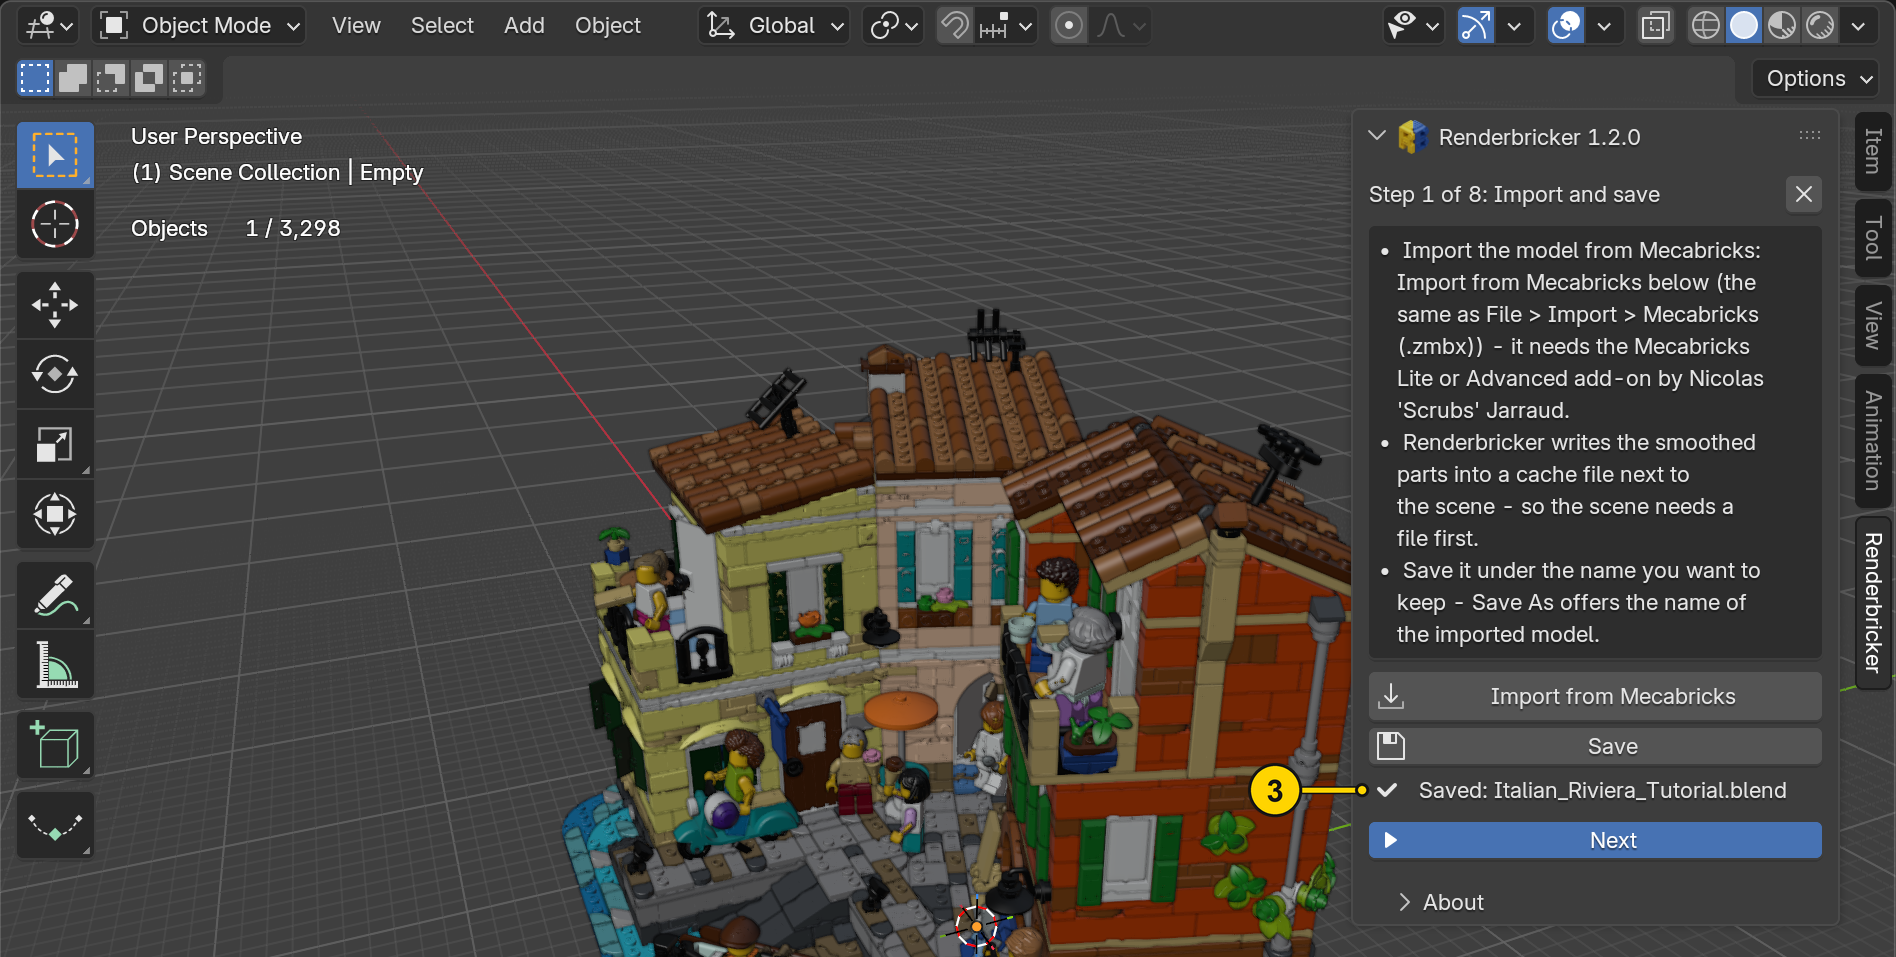
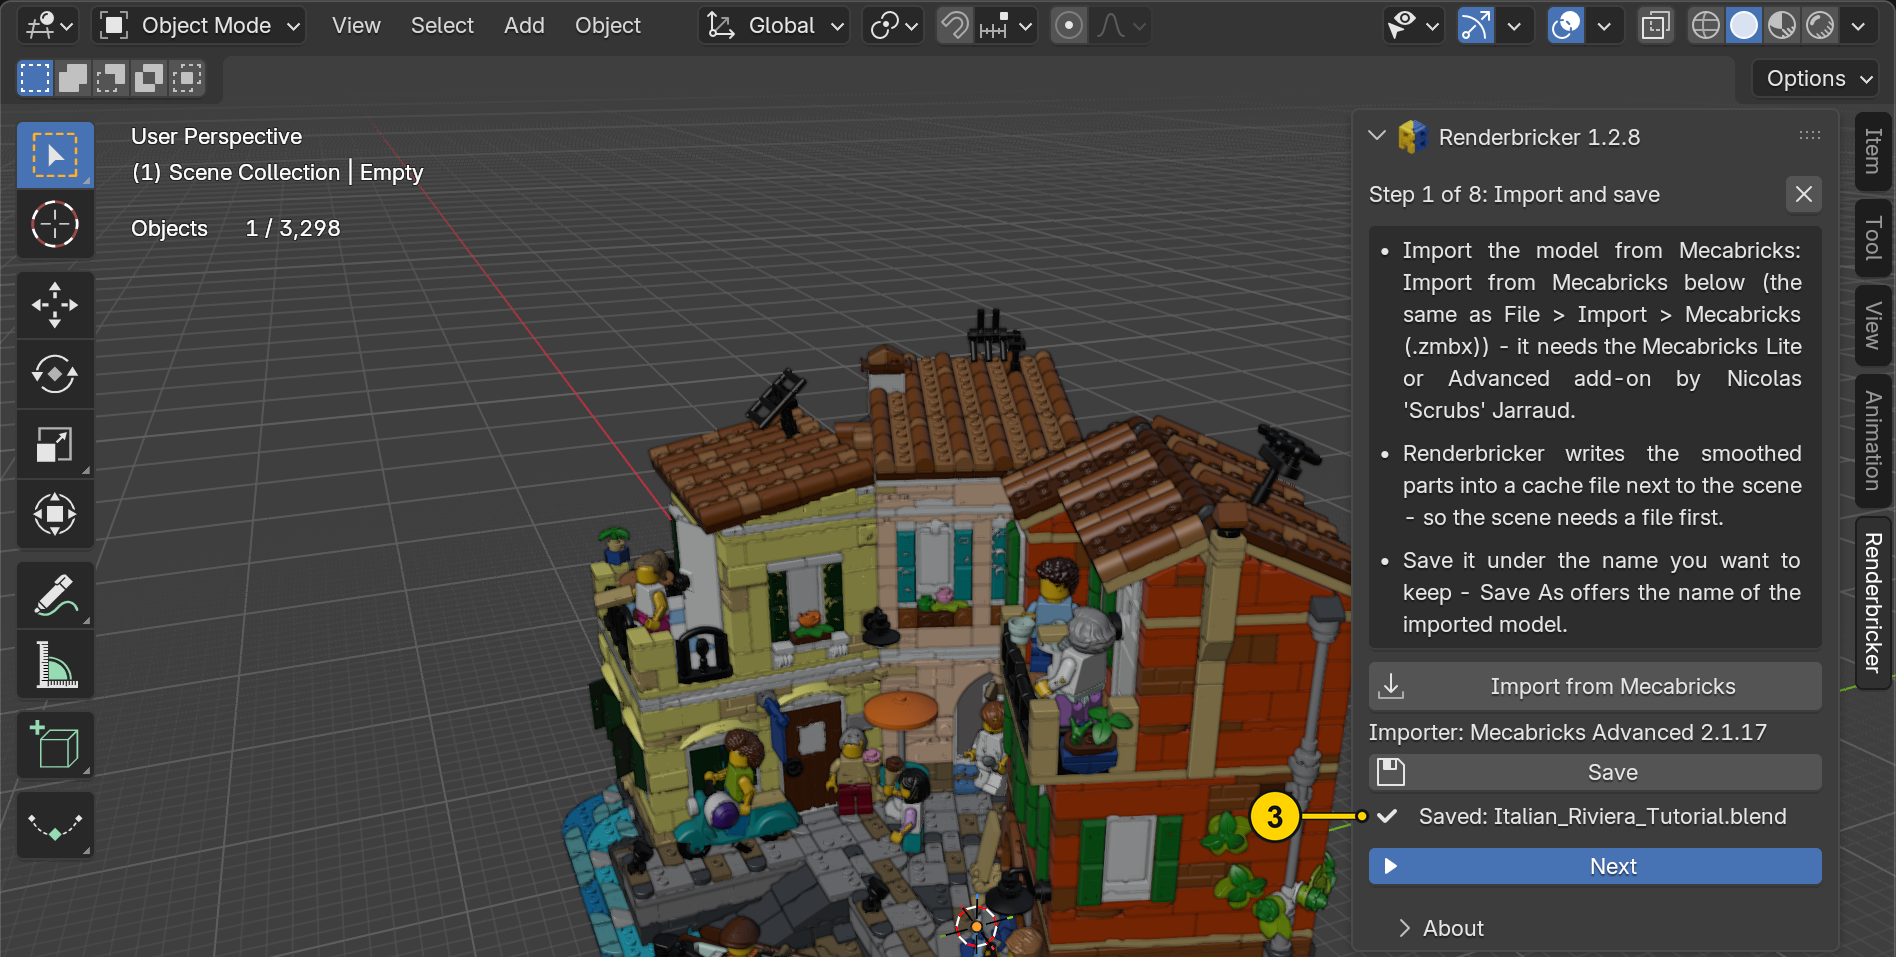
Release 1.2.8
- Convert headless: its question is a dialog with the sentence in short lines
  (as one line it grew wider than the Blender window); the cache question names
  the files on lines of their own.
- Tutorial revised for 1.2.8: the collection list in place of the scope All,
  Bevel maps for EEVEE, the cache question after Save As, Remove All, Save
  render scene; all panel pictures taken anew, one new picture.
- README: Bevel maps for EEVEE, Convert headless, imported models are listed.
- CHANGELOG: 1.2.8 dated 2026-10-11.

Claude-Session: https://claude.ai/code/session_01R4exWEBGeX9hqzNdHYzEeJ

Changed region(s): [[0.7157, 0.2424, 0.9647, 0.6667], [0.6535, 0.697, 0.9647, 1.0]]

diff --git a/addon/renderbricker/operators.py b/addon/renderbricker/operators.py
@@ -260,10 +260,10 @@ class MECSUB_OT_cache_after_save(bpy.types.Operator):
         due = cache_question_due()
         L = self.layout
         col = L.column(align=True)
-        col.label(text=f"The scene was saved as {os.path.basename(bpy.data.filepath)}.", icon='INFO')
-        if due:
-            col.label(text=f"Its smoothed parts are still in {os.path.basename(due[0])},", icon='BLANK1')
-            col.label(text="the cache file of the scene it was before.", icon='BLANK1')
+        col.label(text=f"The scene was saved as {os.path.basename(bpy.data.filepath)}.")
+        if due:                             # the names on lines of their own: long ones are not cut short
+            col.label(text="Its smoothed parts are still in the cache file of the scene it was before:")
+            col.label(text=os.path.basename(due[0]))
         L.column(align=True).prop(self, "choice", expand=True)
         col = L.column(align=True)
         col.scale_y = 0.8
@@ -633,9 +633,19 @@ class MECSUB_OT_headless(bpy.types.Operator):
             self.report({'INFO'}, "Save the scene first - Convert headless continues after saving")
             widgets.continue_after_save(context, "mecsub.headless")
             return bpy.ops.wm.save_as_mainfile('INVOKE_DEFAULT', filepath=widgets.save_as_name(context))
-        return context.window_manager.invoke_confirm(
-            self, event, title="Convert headless",
-            message=" ".join(common.HEADLESS_ABOUT) + " The scene is saved now. Continue?")
+        # a dialog of its own: the question of invoke_confirm is one line, and with the sentence about what
+        # Convert headless does it grew wider than the Blender window (seen in the tutorial pictures, run 271)
+        return context.window_manager.invoke_props_dialog(self, width=460, title="Convert headless",
+                                                          confirm_text="Continue")
+
+    def draw(self, context):
+        import textwrap
+        col = self.layout.column(align=True)
+        col.scale_y = 0.85
+        for sentence in common.HEADLESS_ABOUT:
+            for line in textwrap.wrap(sentence, 62):
+                col.label(text=line)
+        self.layout.label(text="The scene is saved now. Continue?")
 
     def execute(self, context):
         import os

diff --git a/docs/TUTORIAL.md b/docs/TUTORIAL.md
@@ -121,16 +121,20 @@ into a cache file next to the scene – so the scene needs a file first.
 **What it is for:** knowing what the defaults do. They suit most scenes – for the Italian Riviera
 all of them stay as they are.
 
-![The panel with its default settings (1–6)](images/tutorial/T03_settings.webp)
+![The panel with its default settings (1–7)](images/tutorial/T03_settings.webp)
 
 | | Setting | Default | In short |
 |---|---|---|---|
-| 1 | Scope | **All** | which parts: all, the selected ones, or chosen collections |
+| 1 | Collection / Selected | **Collection** | which parts: the ones in the collections of the list – the imported model is in it already – or the selected ones |
 | 2 | Variant | **A – Mecabricks normals** | keeps the shading of the import; *B* gives crisper logos on the studs |
 | 3 | Levels | **Viewport 1 / Render 2** | smooth enough to work with, full quality in the render |
-| 4 | Several Blender processes | **on** | larger scenes are converted by several Blenders at once |
-| 5 | Low Memory | **Auto** | only for very large parts or little memory – see [Going further](#low-memory) |
-| 6 | Cache file | **on** | the copies go into a file of their own, the scene file stays small |
+| 4 | Bevel maps for EEVEE | **off** | clean round rims in EEVEE renders – see [Going further](#bevel-maps-for-eevee) |
+| 5 | Several Blender processes | **on** | larger scenes are converted by several Blenders at once |
+| 6 | Low Memory | **Auto** | only for very large parts or little memory – see [Going further](#low-memory) |
+| 7 | Cache file | **on** | the copies go into a file of their own, the scene file stays small |
+
+Every mesh in the listed collections is treated as a Mecabricks part: Renderbricker does not tell LEGO parts
+from other meshes. Keep your own models out of these collections.
 
 **Why two levels:** level 2 has three to four times the faces of level 1. The viewport stays fast
 with level 1, and F12 switches to level 2 only while it renders.
@@ -275,12 +279,18 @@ whole 8K render (1.7 MB):
 **What it is for:** the copies live in `<scene>_rbcache.blend`. A scene saved under another name or
 in another folder still links the old cache – here you decide where it belongs.
 
-![After Save As: the cache of another scene (1) with Move and Copy (2, 3)](images/tutorial/T09_save_as.webp)
+![Right after Save As: the question about the cache file (1–3)](images/tutorial/T09a_cache_question.webp)
 
-1. Right after *Save As* under another name or folder, Renderbricker asks: **Move cache here**, **Copy cache
-   here** or **Not now**. With *Not now* the panel shows **Cache of another scene** and its name (the picture).
-2. **Move cache here** takes the cache along – the old scene then has none.
-3. **Copy cache here** keeps one cache for each file.
+Right after *Save As* under another name or in another folder, Renderbricker asks what to do with the cache file:
+
+1. **Move cache here** takes the cache along – the scene it was before then shows its original meshes.
+2. **Copy cache here** keeps one cache for each file – it needs the disk space twice.
+3. **Not now** leaves everything as it is. Confirm with **OK**.
+
+![After Not now: the cache of another scene (1) with Move and Copy (2, 3)](images/tutorial/T09_save_as.webp)
+
+After *Not now* the panel keeps saying **Cache of another scene** (1) and offers **Move cache here** (2) and
+**Copy cache here** (3) until you decide. *File → Save Copy* asks nothing: the open scene keeps its cache.
 
 **Check:** the panel shows *Cache file:* with the new name, e.g.
 `Italian_Riviera_Tutorial_SaveAs_rbcache.blend`.
@@ -292,9 +302,9 @@ in another folder still links the old cache – here you decide where it belongs
 **What it is for:** Convert headless does the same as Apply, but outside Blender in a console window – for large scenes. It writes a new scene file with the converted parts; the open scene stays as it is. It does not render. Blender stays free
 meanwhile.
 
-1. Press **Convert headless** and confirm with **OK**. The scene is saved first.
+1. Press **Convert headless** and confirm with **Continue**. The scene is saved first.
 
-![The question of Convert headless (picture of an earlier version: the question now also says what Convert headless does)](images/tutorial/T10_headless_question.webp)
+![The question of Convert headless](images/tutorial/T10_headless_question.webp)
 
 A terminal shows the progress; the result is written next to the scene as a new file:
 
@@ -354,26 +364,45 @@ From that menu, parts from the cache file refuse Edit Mode (*error changing mo
 
 ![After Remove: the plain import again (1, 2)](images/tutorial/T11_removed.webp)
 
-**Check:** the summary (2) names the objects and the copies removed – with *All*, Remove covers the
-whole file, every scene included – and the button reads **Subdivision: -**. The cache file stays on
-the disk until you delete it.
+**Check:** the summary (2) names the objects and the copies removed, and the button reads
+**Subdivision: -**. The cache file stays on the disk until you delete it.
+
+**Remove** works on the parts of the list (or the selected ones). **Remove All** next to it takes every
+converted part of the file back to its import – all models, every scene – after a question.
 
 ---
 
 ## Going further
 
-### Only some collections
+### The collection list
 
-A large scene can be converted piece by piece.
+Apply, Check, ON/OFF and Remove work on the collections of the list. A large scene can be converted piece by
+piece, and other models in the scene are never converted by accident.
 
-![Collection with the list of collections (1–3)](images/tutorial/T03b_collection.webp)
+![Collection, the list and the camera icon (1–3)](images/tutorial/T03b_collection.webp)
 
-1. Choose **Collection**. The list starts empty.
-2. Click the collection in the Outliner and press **+**; **−** takes the selected entry out of the list.
+1. **Collection** works on the collections of the list, **Selected** on the objects selected in the viewport or
+   the Outliner instead.
+2. The list: an imported model is in it already. **+** beside it adds the collection of the selected part – one
+   part of the model is enough; with nothing selected, **+** offers the collections that hold parts. **−** takes
+   the selected entry out, the trash empties the list.
 3. The **camera icon** marks a collection for the render camera: with the camera on, only the marked
    collections are shown and rendered.
 
-Parts outside the chosen collections stay as imported; Apply converts only what is not up to date.
+Parts outside the choice stay as imported; Apply converts only what is not up to date.
+
+### Bevel maps for EEVEE
+
+EEVEE cannot round edges the way Cycles does. The import shows a small baked map there, made for the coarse
+mesh – round rims come out scalloped. With **Bevel maps for EEVEE** on, Apply bakes the rounded edges of every
+converted part from its smooth copy into a new map of the same size: round rims are clean arcs. It takes about a
+second per part; Cycles is not changed, and **Remove** takes the maps out again.
+
+### Rendering on another computer
+
+**Save render scene** writes `<scene>_render.blend` next to the scene: every converted part at the render level,
+parts and materials inside the file. It renders without Renderbricker and without the cache file – on a render
+farm, for example.
 
 ### Levels above 2
 
@@ -398,11 +427,12 @@ problems, into `<scene>_Renderbricker.log` next to the scene.
 
 ## Summary
 
+- The **collection list** says which models Renderbricker works on; an imported model is in it by itself.
 - **Apply** smooths every part once; all bricks of that part share the copy.
 - **Subdivision ON/OFF** compares with the import, **Check** finds problems before you render.
 - **F12** renders at the render level; the **render camera** gives quick pictures without touching
   your setup.
-- The copies live in the **cache file** next to the scene – after *Save As*, move or copy it.
+- The copies live in the **cache file** next to the scene – after *Save As*, Renderbricker asks whether to move or copy it.
 - **Tab** on a converted part edits its import; leaving Edit Mode converts it again, saving puts it into the cache.
 - **Convert headless** handles large scenes in the background; **Remove** goes back to the import.
 

diff --git a/README.md b/README.md
@@ -13,6 +13,7 @@ Renderbricker is a Blender add-on and a batch pipeline for scenes built in [Meca
 - **Checks** – the original is verified untouched, folds and seam gaps are measured after every conversion.
 - **Render camera** – a camera, a physical sky and render settings of their own, switched on and off without touching yours: six views around the model, sun sliders, transparent background, sample levels, all views in one go.
 - **Cycles | EEVEE** – either engine in the viewport and for rendering; EEVEE gets a sun lamp that follows the sky and comes close to Cycles.
+- **Bevel maps for EEVEE** – an option that bakes the rounded edges of the smooth parts into new maps, so round rims come out clean in EEVEE.
 - **Real size** – models imported at scale 0.001 (the metric real size) work like those at scale 1; the render camera follows scale changes.
 
 ## Requirements
@@ -39,10 +40,10 @@ To build the package from the source instead: `python scripts/core/build_addon.p
 
 ## Usage
 
-- **Apply** converts the parts in the collections of the list (or the selection): select a part of the model and press **+** to list its collection – a model imported with *Import from Mecabricks* is listed already. Choose viewport and render level first; with "Cache file next to the scene" the scene is saved automatically once the cache is written.
+- **Apply** converts the parts in the collections of the list (or the selection): select a part of the model and press **+** to list its collection – an imported model is listed already, whichever way it was imported. Choose viewport and render level first; with "Cache file next to the scene" the scene is saved automatically once the cache is written.
 - **Subdivision: ON / OFF** switches every link between the subdivided copy and the original.
 - **F12 / Ctrl+F12** render with the render level.
-- **Convert headless** runs the conversion without the window (faster for large scenes).
+- **Convert headless** does the same as Apply, but outside Blender in a console window – for large scenes. It writes a new scene file with the converted parts; the open scene stays as it is. It does not render.
 - **Save render scene** writes `<scene>_render.blend` for computers without Renderbricker (render farms): all parts at the render level, parts and materials inside the file. A scene with a cache file needs the add-on to show its materials and to render the render level – the render scene does not.
 
 Batch conversion of many models (system Python):

diff --git a/CHANGELOG.md b/CHANGELOG.md
@@ -5,7 +5,7 @@ All notable changes to this project are documented here. The project follows
 changes that break existing scenes or settings. Only changes to the add-on itself are listed;
 documentation changes are not.
 
-## [1.2.8] – unreleased
+## [1.2.8] – 2026-10-11
 
 - **Blender 4.5: no crash right after opening a file.** Blender 4.1 to 4.5 crash when a script removes a scene in the same call that opened a file; a script that opened a scene and ran Apply at once took Blender down, because Apply tidies up a helper scene. The add-on now removes its helper scenes a moment later in that case. Pressing Apply by hand was not affected; Blender 5.0 and later do not have the fault.
 - **Bevel maps for EEVEE:** a new option below the levels. EEVEE cannot round edges the way Cycles does; the importer shows a small map there that was made for the coarse import, and round rims come out scalloped. With the option on, **Apply** bakes the rounded edges of every converted part from its smooth copy into a new map of the same size, and the part uses it in EEVEE: round rims are clean arcs. About a second per part; Cycles is not changed. The import keeps its map (Subdivision OFF shows it as before), **Remove** takes the new maps out again. Works with the cache file, with several Blender processes, with **Convert headless** and **Save render scene**. For parts imported with their EEVEE maps (Renderbricks); other parts are left as they are.
